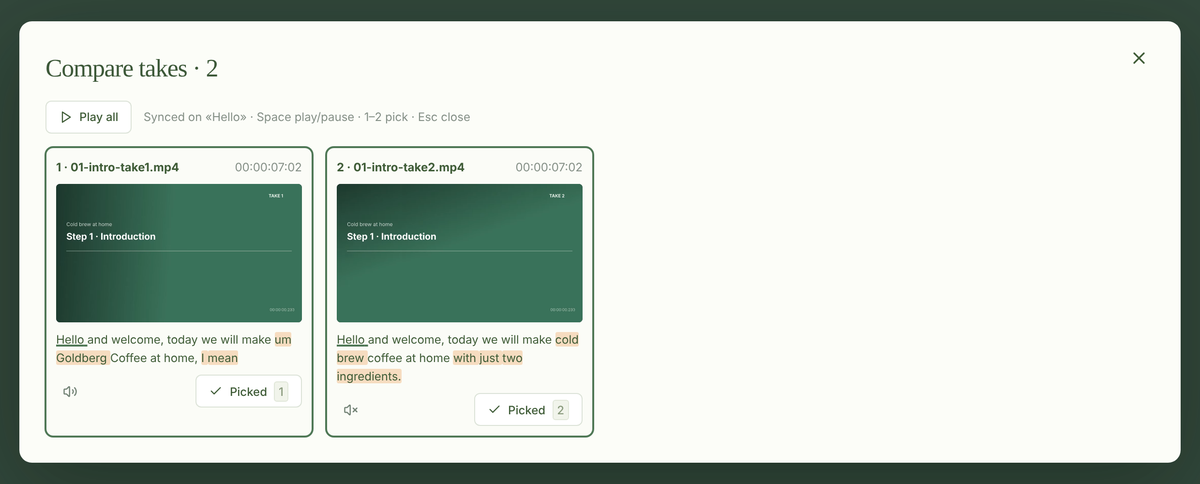
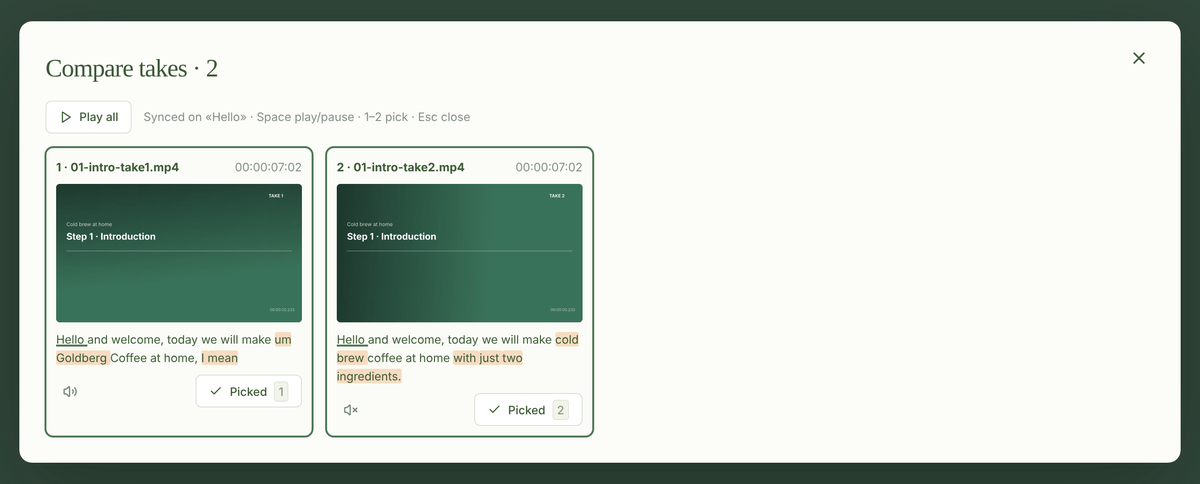
DEV: Script to retake the README screenshots from a generated demo project

Changed region(s): [[0.0925, 0.3719, 0.2775, 0.4959], [0.2775, 0.4649, 0.37, 0.6818], [0.0308, 0.4959, 0.1233, 0.6818]]

diff --git a/scripts/make_screenshots.py b/scripts/make_screenshots.py
@@ -1,0 +1,327 @@
+#!/usr/bin/env python3
+"""Retake the README screenshots (docs/images/) from a generated demo project.
+
+    scripts/dev.sh screenshots [--out docs/images] [--work DIR] [--keep]
+    scripts/dev.ps1 screenshots [...]
+
+The demo is eight synthetic "cold brew tutorial" rushes (slides with a synthetic voice,
+retakes of steps 1, 2 and 4) that are really imported and analysed: the transcripts,
+summaries and stacking in the pictures come from the application. It therefore needs the
+FFmpeg `flite` and `drawtext` filters, and the models of the analysis already downloaded
+(Settings -> AI models). Playwright is fetched on the fly by `dev.sh screenshots`
+(`uv run --with playwright`) and drives Chromium (`playwright install chromium` once, or
+`PLAYWRIGHT_CHROMIUM_EXECUTABLE` for an existing build). The frontend must be built
+(`scripts/dev.sh build`).
+"""
+
+from __future__ import annotations
+
+import argparse
+import json
+import os
+import shutil
+import socket
+import subprocess
+import sys
+import tempfile
+import time
+import urllib.request
+from pathlib import Path
+
+ROOT = Path(__file__).resolve().parent.parent
+sys.path.insert(0, str(ROOT / "backend"))
+
+from videoflow.media.caps import NO_WINDOW, locate_binaries  # noqa: E402
+from videoflow.runtime import assets_dir  # noqa: E402
+
+VIEWPORT = {"width": 1600, "height": 1100}
+# name, slide title, take, gradient colours, what is said
+RUSHES = [
+    ("01-intro-take1", "Step 1 · Introduction", "1", "0x1f3b2d", "0x3f7a5a",
+     "Hello and welcome. Today we will make, um, cold brew coffee. At home, I mean."),
+    ("01-intro-take2", "Step 1 · Introduction", "2", "0x1f3b2d", "0x3f7a5a",
+     "Hello and welcome. Today we will make cold brew coffee at home, with just two ingredients."),
+    ("02-grind-take1", "Step 2 · Grind the beans", "1", "0x4a2c17", "0x9a6236",
+     "First, grind one hundred grams of coffee beans. Use a fine setting."),
+    ("02-grind-take2", "Step 2 · Grind the beans", "2", "0x4a2c17", "0x9a6236",
+     "First, grind one hundred grams of coffee beans. Use a coarse setting, like breadcrumbs."),
+    ("03-water", "Step 3 · Add cold water", "1", "0x17384a", "0x2f7ea0",
+     "Add one litre of cold water and stir gently, then cover the jar."),
+    ("04-wait-take1", "Step 4 · Let it steep", "1", "0x2c2350", "0x6352a8",
+     "Leave it in the fridge for twelve to eighteen hours. Not more, or it gets bitter."),
+    ("04-wait-take2", "Step 4 · Let it steep", "2", "0x2c2350", "0x6352a8",
+     "Leave it in the fridge for twelve to eighteen hours. If you wait longer, it gets bitter."),
+    ("05-serve", "Step 5 · Filter and serve", "1", "0x4a1730", "0xa03a6b",
+     "Strain the coffee through a paper filter. Serve it over ice, with a little milk. Enjoy!"),
+]  # fmt: skip
+
+
+def run(command: list[str]) -> None:
+    subprocess.run(command, check=True, creationflags=NO_WINDOW)  # noqa: S603
+
+
+def escape(text: str) -> str:
+    return text.replace(":", "\\:").replace("'", "’")
+
+
+def make_rushes(folder: Path) -> None:
+    """The eight rushes: a gradient slide, a title, and a flite voice."""
+    ffmpeg = str(locate_binaries().ffmpeg)
+    ffprobe = str(locate_binaries().ffprobe)
+    bold = (assets_dir() / "fonts" / "Inter-Bold.otf").as_posix().replace(":", "\\:")
+    regular = (assets_dir() / "fonts" / "Inter-Regular.otf").as_posix().replace(":", "\\:")
+    folder.mkdir(parents=True, exist_ok=True)
+    for name, title, take, c0, c1, text in RUSHES:
+        if (folder / f"{name}.mp4").is_file():
+            continue
+        wav = folder / f".{name}.wav"
+        run([ffmpeg, "-v", "error", "-y", "-f", "lavfi", "-i",
+             f"flite=text='{escape(text)}':voice=slt",
+             "-af", "apad=pad_dur=0.6,adelay=700|700,aresample=48000", str(wav)])  # fmt: skip
+        duration = float(
+            subprocess.run(  # noqa: S603
+                [ffprobe, "-v", "error", "-show_entries", "format=duration", "-of", "csv=p=0",
+                 str(wav)],
+                capture_output=True, text=True, check=True, creationflags=NO_WINDOW,
+            ).stdout
+        )  # fmt: skip
+        filters = (
+            "drawbox=x=80:y=520:w=1760:h=6:color=white@0.35:t=fill,"
+            f"drawtext=fontfile={bold}:text='{escape(title)}':fontcolor=white:fontsize=72:x=80:y=380,"
+            f"drawtext=fontfile={regular}:text='Cold brew at home':fontcolor=white@0.75:"
+            "fontsize=40:x=80:y=300,"
+            f"drawtext=fontfile={bold}:text='TAKE {take}':fontcolor=white@0.9:fontsize=34:"
+            "x=w-260:y=80,"
+            f"drawtext=fontfile={regular}:text='%{{pts\\:hms}}':fontcolor=white@0.6:fontsize=30:"
+            "x=w-260:y=h-110"
+        )
+        run([ffmpeg, "-v", "error", "-y", "-f", "lavfi", "-i",
+             f"gradients=s=1920x1080:r=30:c0={c0}:c1={c1}:x0=0:y0=0:x1=1920:y1=1080:"
+             f"speed=0.004:d={duration}",
+             "-i", str(wav), "-vf", filters, "-c:v", "libx264", "-preset", "veryfast",
+             "-crf", "20", "-pix_fmt", "yuv420p", "-g", "30", "-c:a", "aac", "-b:a", "128k",
+             "-shortest", str(folder / f"{name}.mp4")])  # fmt: skip
+        wav.unlink()
+        print("rush", name)
+
+
+def free_port() -> int:
+    with socket.socket() as probe:
+        probe.bind(("127.0.0.1", 0))
+        return int(probe.getsockname()[1])
+
+
+class App:
+    """The application served on a local port, with its own cache."""
+
+    def __init__(self, project: Path, media: Path, cache: Path) -> None:
+        self.port = free_port()
+        self.log = (cache.parent / "serve.log").open("w", encoding="utf-8")
+        # No update offer in the pictures, whatever GitHub answers.
+        environment = {
+            **os.environ,
+            "VIDEOFLOW_CACHE_DIR": str(cache),
+            "VIDEOFLOW_UPDATE_URL": (cache.parent / "no-release.json").as_uri(),
+        }
+        self.process = subprocess.Popen(  # noqa: S603
+            [sys.executable, "-m", "videoflow", "serve", "--no-open-browser",
+             "--port", str(self.port), "--media-root", str(media), "--project", str(project)],
+            stdout=self.log, stderr=subprocess.STDOUT, env=environment, cwd=ROOT / "backend",
+        )  # fmt: skip
+        self.url = ""
+        for _ in range(120):
+            text = Path(self.log.name).read_text(encoding="utf-8")
+            marker = f"http://127.0.0.1:{self.port}/?token="
+            if marker in text:
+                self.url = marker + text.split(marker)[1].split()[0]
+                return
+            if self.process.poll() is not None:
+                raise SystemExit(f"The application did not start:\n{text}")
+            time.sleep(0.5)
+        raise SystemExit("The application did not start in time")
+
+    def close(self) -> None:
+        self.process.terminate()
+        try:
+            self.process.wait(10)
+        except subprocess.TimeoutExpired:
+            self.process.kill()
+        self.log.close()
+
+
+def import_rushes(page, folder: Path) -> None:
+    """Import and analyse every rush through the API, then wait for the previews."""
+    for name, *_ in RUSHES:
+        status = page.evaluate(
+            """async (path) => (await fetch('/api/import-path', {method: 'POST',
+              headers: {'content-type': 'application/json'},
+              body: JSON.stringify({path, analyse: true})})).status""",
+            str(folder / f"{name}.mp4"),
+        )
+        if status != 200:
+            raise SystemExit(f"Import of {name} refused ({status})")
+    for _ in range(900):
+        jobs = page.evaluate("async () => await (await fetch('/api/jobs')).json()")
+        jobs = jobs if isinstance(jobs, list) else jobs.get("jobs", list(jobs.values()))
+        if jobs and all(j["state"] not in ("queued", "running", "waiting-models") for j in jobs):
+            failed = [j for j in jobs if j["state"] != "done"]
+            if failed:
+                raise SystemExit(
+                    f"Imports failed: {[(j['filename'], j['state'], j.get('error')) for j in failed]}"
+                )
+            break
+        time.sleep(2)
+    else:
+        raise SystemExit("The imports did not finish")
+    for _ in range(300):
+        states = page.evaluate("async () => await (await fetch('/api/previews')).json()")
+        if all(s["state"] == "ready" for s in states.values()):
+            return
+        time.sleep(1)
+    raise SystemExit("The previews did not finish")
+
+
+def shrink(source: Path, target: Path, width: int, crop: tuple[int, int, int, int] | None) -> None:
+    from PIL import Image
+
+    image = Image.open(source).convert("RGB")
+    if crop:
+        image = image.crop(crop)
+    width = min(width, image.width)
+    image = image.resize((width, round(image.height * width / image.width)), Image.LANCZOS)
+    image.save(target, optimize=True)
+
+
+def main() -> int:
+    parser = argparse.ArgumentParser(description=__doc__.split("\n\n")[0])
+    parser.add_argument("--out", type=Path, default=ROOT / "docs" / "images")
+    parser.add_argument("--work", type=Path, help="Folder for the demo files (default: temporary)")
+    parser.add_argument("--keep", action="store_true", help="Keep the demo folder")
+    args = parser.parse_args()
+    if not (ROOT / "frontend" / "dist" / "index.html").is_file():
+        raise SystemExit("Build the interface first: scripts/dev.sh build")
+    from playwright.sync_api import sync_playwright
+
+    work = args.work or Path(tempfile.mkdtemp(prefix="videoflow-screenshots-"))
+    media = work / "Cold-brew-rushes"
+    raw = work / "raw"
+    raw.mkdir(parents=True, exist_ok=True)
+    args.out.mkdir(parents=True, exist_ok=True)
+    make_rushes(media)
+    app = App(media / "Cold brew tutorial.video-flow", media, work / "cache")
+    try:
+        with sync_playwright() as playwright:
+            executable = os.environ.get("PLAYWRIGHT_CHROMIUM_EXECUTABLE")
+            browser = playwright.chromium.launch(executable_path=executable or None)
+            page = browser.new_page(viewport=VIEWPORT, device_scale_factor=2)
+            page.goto(app.url)
+            page.wait_for_selector(".properties-dock")
+            import_rushes(page, media)
+            page.reload()
+            page.wait_for_selector('[data-testid="clip-video"]')
+            capture(page, raw)
+            browser.close()
+    finally:
+        app.close()
+    crops = {"compare": (360, 600, 2840, 1600), "export": (1029, 328, 2171, 1874),
+             "settings": (699, 69, 2501, 2133)}  # fmt: skip
+    for name in ("overview", "compare", "search", "finish", "export", "settings"):
+        shrink(raw / f"{name}.png", args.out / f"{name}.png", 1200 if name in crops else 1600,
+               crops.get(name))  # fmt: skip
+        print("image", args.out / f"{name}.png")
+    if not args.keep and not args.work:
+        shutil.rmtree(work, ignore_errors=True)
+    return 0
+
+
+def clip(page, name: str, kind: str = "video"):
+    return page.locator(f'[data-testid="clip-{kind}"]').filter(has_text=name).first
+
+
+def settle(page, ms: int = 800) -> None:
+    page.wait_for_timeout(ms)
+
+
+def capture(page, raw: Path) -> None:
+    def shot(name: str) -> None:
+        settle(page)
+        page.screenshot(path=str(raw / f"{name}.png"))
+        print("shot", name)
+
+    def flow_to_bottom() -> None:
+        page.evaluate(
+            "() => { const f = document.querySelector('.flow-scroll'); if (f) f.scrollTop = f.scrollHeight; }"
+        )
+
+    def top_of_flow() -> None:
+        page.evaluate(
+            "() => { const f = document.querySelector('.flow-scroll'); if (f) f.scrollTop = 0; }"
+        )
+
+    # Compare the retakes and keep the second take of each step (key 2).
+    for name in ("01-intro-take1", "02-grind-take1", "04-wait-take1"):
+        clip(page, name).click()
+        page.click("text=Compare takes")
+        settle(page, 2500 if name == "01-intro-take1" else 800)
+        if name == "01-intro-take1":
+            shot("compare")
+        page.keyboard.press("2")
+        settle(page, 400)
+        page.keyboard.press("Escape")
+        settle(page, 400)
+    page.keyboard.press("Home")
+
+    # Overview: a picked take selected, with its transcript.
+    clip(page, "02-grind-take2").click()
+    page.click("text=Transcript")
+    page.keyboard.press("Control+ArrowRight")  # ten seconds in: inside step 2
+    flow_to_bottom()
+    shot("overview")
+
+    # Text search.
+    page.keyboard.press("Escape")
+    page.keyboard.press("Control+f")
+    page.keyboard.type("bitter")
+    settle(page, 500)
+    page.keyboard.press("Enter")
+    flow_to_bottom()
+    shot("search")
+    page.fill('[aria-label="Search what is said"]', "")
+    page.keyboard.press("Escape")
+
+    # Finishing: lower third, dissolves on every cut, a fade in.
+    page.keyboard.press("Home")
+    page.click("text=Lower third")
+    settle(page, 800)
+    page.locator('[aria-label="Title text"]').fill("Cold brew at home\nA recipe in five steps")
+    page.locator('[aria-label="Title text"]').blur()
+    settle(page, 1200)
+    page.locator('[aria-label="Cut: add a transition"]').first.click()
+    settle(page, 600)
+    page.click("text=Apply cross dissolve to all cuts")
+    settle(page, 800)
+    page.keyboard.press("Home")
+    for _ in range(2):
+        page.keyboard.press("Shift+ArrowRight")
+    clip(page, "01-intro-take2").click()
+    page.click(".properties-dock >> text=Effects")
+    page.click("text=Add effect")
+    settle(page, 400)
+    page.click("text=Fade in")
+    settle(page, 600)
+    top_of_flow()
+    shot("finish")
+
+    # Export and settings windows.
+    page.click('button:has-text("Export")')
+    settle(page, 800)
+    shot("export")
+    page.reload()  # closes the window
+    page.wait_for_selector(".properties-dock")
+    page.click('[aria-label="Settings"]')
+    settle(page, 1500)
+    shot("settings")
+
+
+if __name__ == "__main__":
+    raise SystemExit(main())

diff --git a/docs/reference/development.md b/docs/reference/development.md
@@ -37,13 +37,15 @@ See [desktop runtime and platform checks](desktop-runtime.md) and the [desktop s
 ## Develop
 
 ```bash
-just test | smoke | lint | serve | build | package   # or scripts/dev.sh … (scripts\2-dev.bat or dev.ps1 on Windows)
+just test | smoke | lint | serve | build | package | screenshots   # or scripts/dev.sh … (scripts\2-dev.bat or dev.ps1 on Windows)
 ```
 
 - `test` runs the unit tier (CPU, synthetic media, no network; tests that need the `ml` extra are skipped without it).
 - `smoke` runs the tests marked `smoke` (small CPU models, downloads them; needs an inference extra such as `cpu`/`smoke`, and `whisper` for the faster-whisper test). Synthetic samples are generated with FFmpeg (needs the `flite` filter) and cached under `VIDEOFLOW_SAMPLES_CACHE`.
 - `build` (`scripts\4-build.bat`) rebuilds the editor interface (`frontend/dist`): run it after pulling frontend changes, since `scripts/run.*` serves the built files.
 - `package` (`scripts\5-package.bat`) builds the interface, then the standalone desktop app with PyInstaller into `releases/Video-Flow/`. It replaces only the application files (the executable and `_internal/`), so the models, FFmpeg and settings beside the executable are kept. When no Python code or package changed, it only updates the interface in seconds (`--full` forces a complete rebuild).
+
+- `screenshots` retakes the README pictures in `docs/images/` (`scripts/make_screenshots.py`): it generates eight synthetic rushes (slides with a synthetic voice, retakes of three steps), runs the application on a temporary project, really imports and analyses them, and drives the interface with Playwright (fetched on the fly with `uv run --with playwright`; no project dependency). It needs the analysis models downloaded, FFmpeg with the `flite` and `drawtext` filters, and Chromium: `playwright install chromium`, or `PLAYWRIGHT_CHROMIUM_EXECUTABLE` pointing to a Chromium. Options: `--out DIR`, `--work DIR` (reuse the demo files), `--keep`. Run it when the interface shown in the README changes, and commit the images.
 
 The checks run before every commit are listed in [AGENTS.md](../../AGENTS.md#checks); conventions (commits, versions, documentation) are there too.
 

diff --git a/docs/reference/dependencies.md b/docs/reference/dependencies.md
@@ -37,6 +37,8 @@ Bundled font: Inter 4.0 Regular and Bold (`assets/fonts/`, SIL Open Font License
 
 `desktop`: PySide6 6.12 (including Qt WebEngine and Shiboken), LGPL-3.0/GPL/commercial terms by component; hosts React and supplies native dialogs, file drops, WebChannel and application lifecycle. Installed by the normal installer; includes the `qwen` extra below (runtimes only, no model weights). The tested Windows x64 wheel lacks H.264 decoding; the editor plays generated VP9/Opus WebM previews. See [desktop runtime notices](desktop-runtime.md).
 
+The README screenshots are retaken by `scripts/dev.sh screenshots`, which fetches Playwright for Python (Apache-2.0) on the fly with `uv run --with playwright`, outside the lock file, and drives a Chromium that Playwright installs (`playwright install chromium`) or that `PLAYWRIGHT_CHROMIUM_EXECUTABLE` names (BSD-3-Clause, with its own third-party notices). It is a development tool, never part of a release.
+
 The `packaging` dependency group adds PyInstaller 6.22 (GPL-2.0 with the bootloader exception) for one-folder builds; it is not required at runtime. Frontend dependencies are recorded in `frontend/package.json` and `package-lock.json`: React 19, Zustand 5, Lucide, Vite 8, TypeScript 6, Vitest and Prettier (MIT licences; see each package's notices).
 
 `ml` (model tooling, no inference runtime; pulled in by every accelerator extra):

diff --git a/README.md b/README.md
@@ -109,4 +109,4 @@ Every dependency with its version and licence: [dependencies](docs/reference/dep
 - [Documentation index](docs/README.md): specification, architecture, decisions, references
 - [AGENTS.md](AGENTS.md): conventions for contributors and coding agents
 
-The demo project in the screenshots is made of synthetic slides with a synthetic voice; its transcripts, summaries and stacking come from the real analysis.
+The demo project in the screenshots is made of synthetic slides with a synthetic voice; its transcripts, summaries and stacking come from the real analysis. `scripts/dev.sh screenshots` retakes them ([development](docs/reference/development.md)).

diff --git a/docs/release_notes.md b/docs/release_notes.md
@@ -11,6 +11,10 @@ Format (checked by the release workflow, `scripts/release_artifacts.py`):
   - `FIX`: a bug fixed;
   - `DEV`: infrastructure or technical work only (left out of GitHub release notes).
 
+## 0.40.0 — 2026-11-17
+
+- DEV: A script retakes the README screenshots from a generated demo project (`scripts/dev.sh screenshots`).
+
 ## 0.39.0 — 2026-11-17
 
 - IMPROVEMENT: The update window shows the download size and links to the release notes; the download can go on in the background, with its progress in the header.
